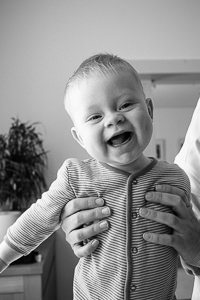
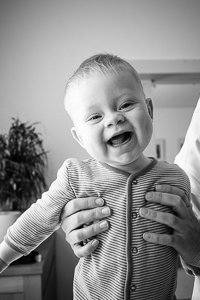
Stripy

diff --git a/_posts/images/projects/emil/2016-05-05-2016-05-05.md b/_posts/images/projects/emil/2016-05-05-2016-05-05.md
@@ -7,4 +7,4 @@ thumburl: /i/DSCF2341_thumb.jpg
 slideurl: 
 ---
 
-![]({{site.url}}/i/DSCF2341_thumb.jpg)
+![]({{site.url}}/i/DSCF2341.jpg)
